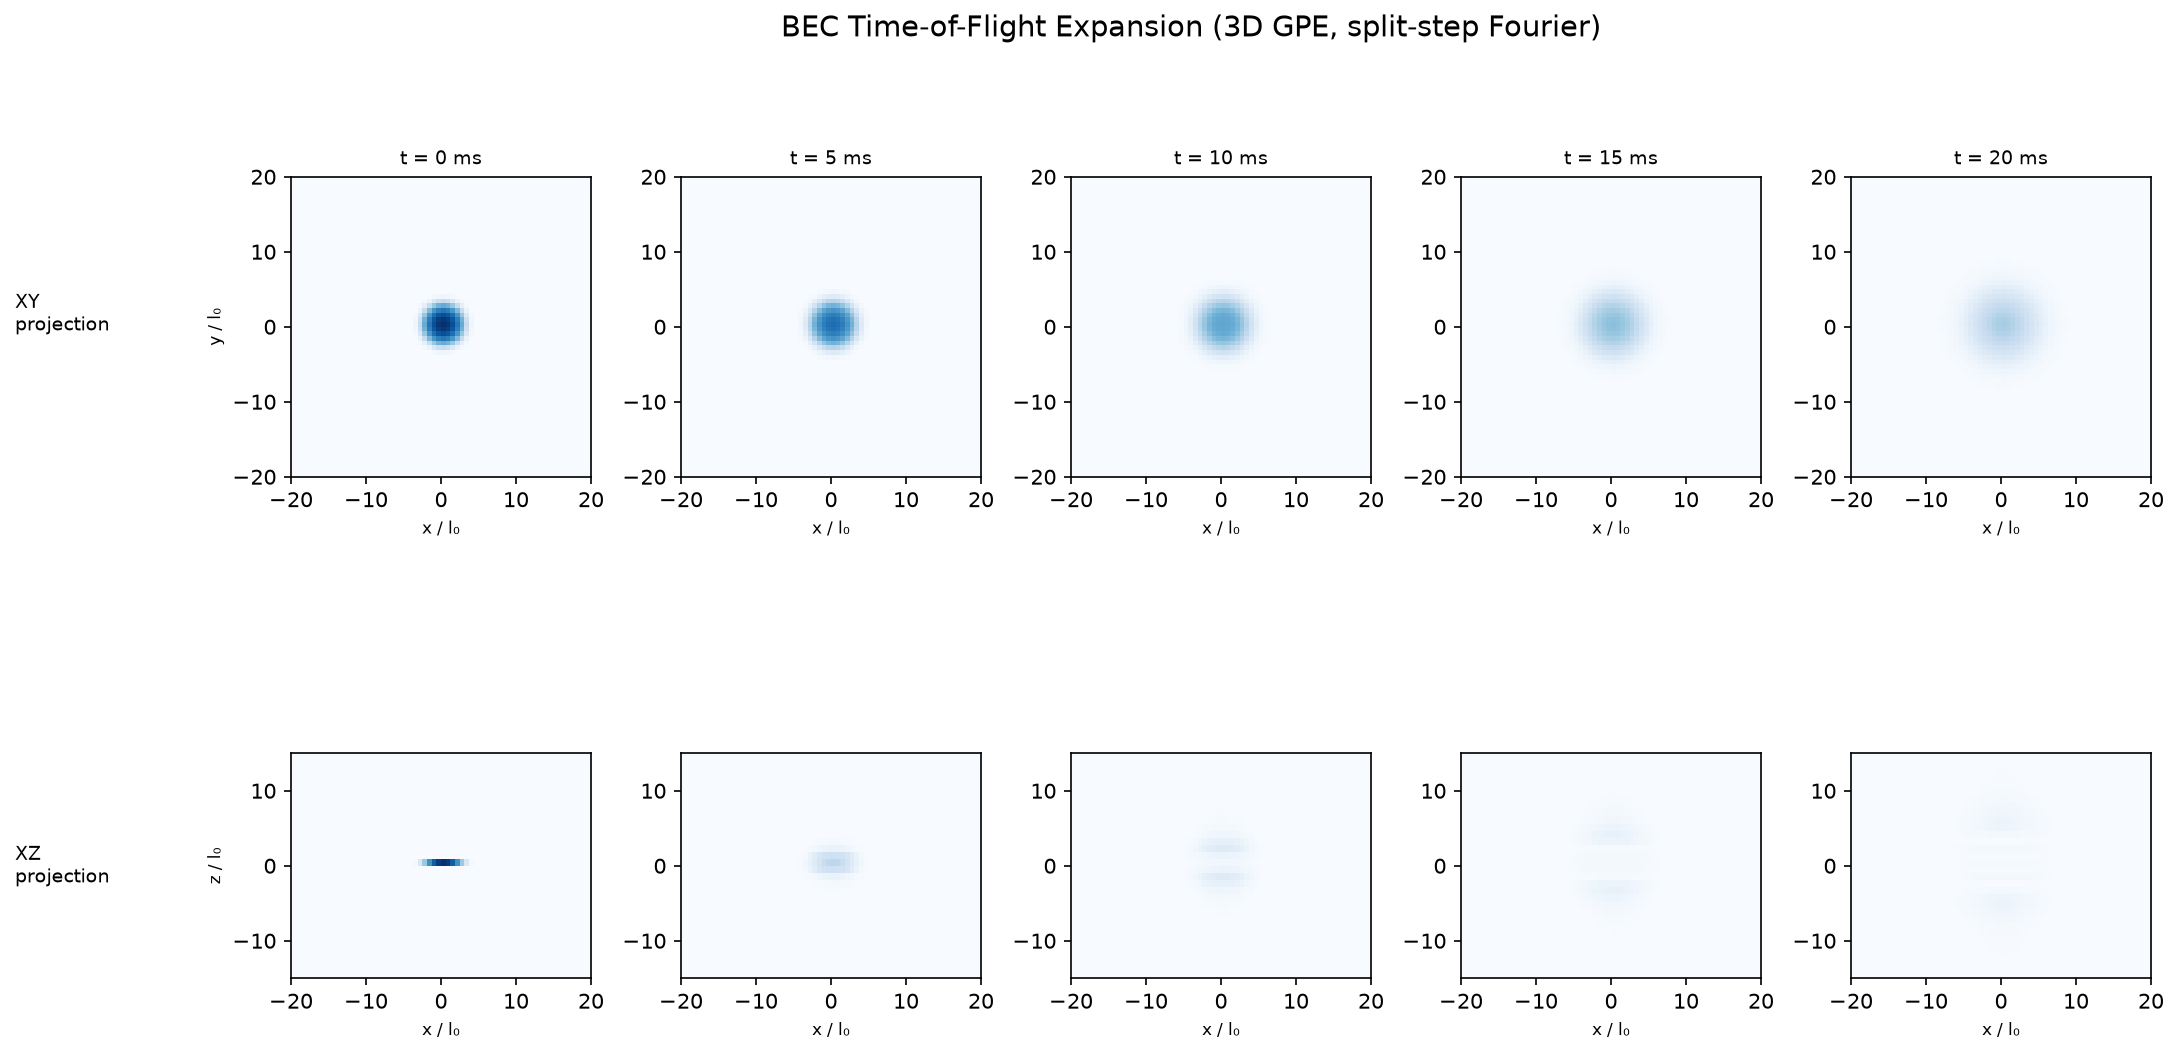
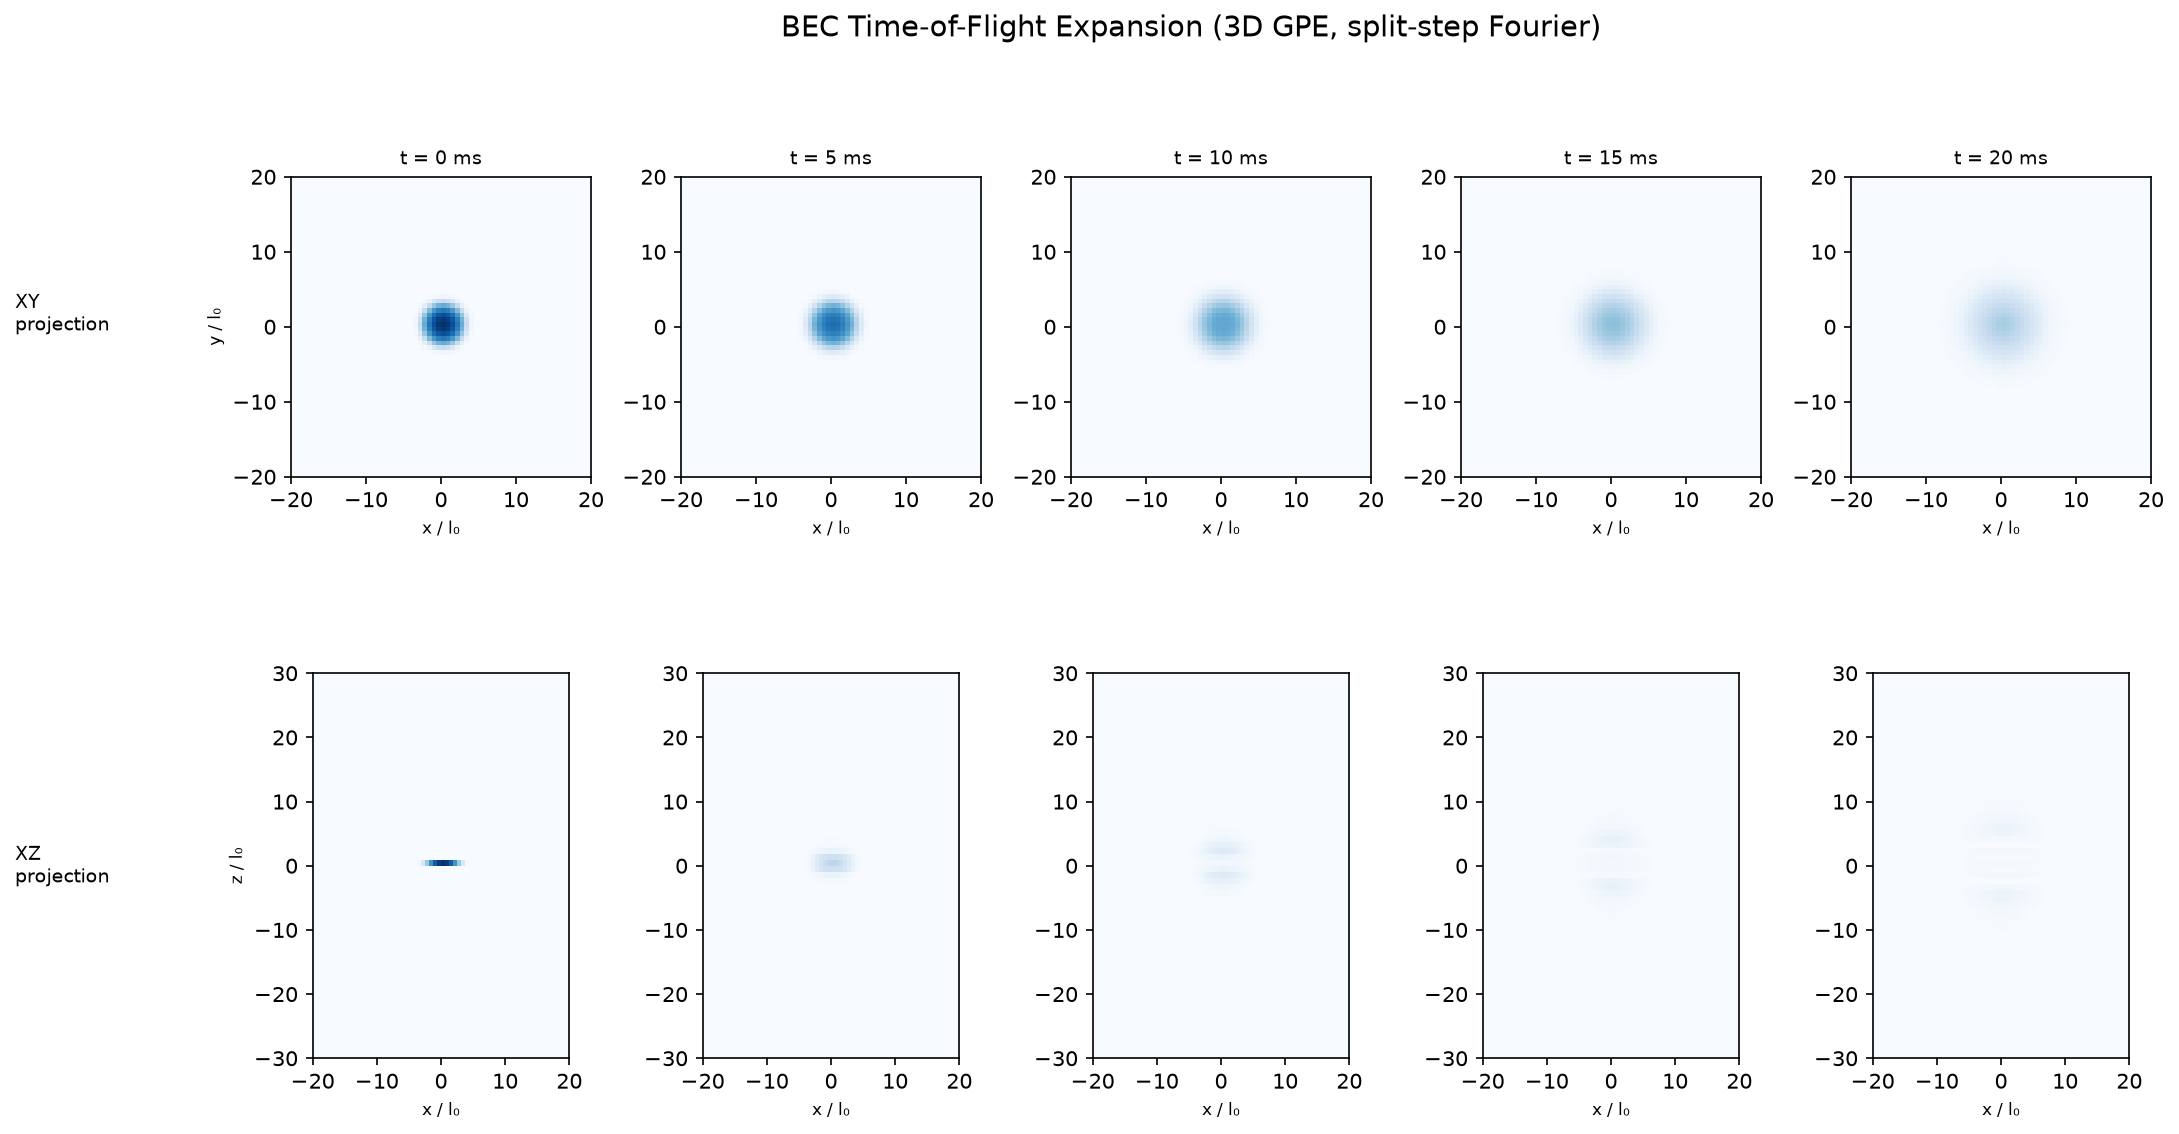
Enlarge Lz, add RMS waist evolution plot

diff --git a/gpe_tof.py b/gpe_tof.py
@@ -48,8 +48,8 @@ a_s      = 5.2e-9                          # s-wave scattering length (m), 87Rb
 g3D      = 4 * np.pi * (a_s / a_ho)       # dimensionless coupling
 
 # ── Grid ─────────────────────────────────────────────────────────────────────
-Nx, Ny, Nz = 64, 64, 32           # grid points (keep powers of 2 for FFT)
-Lx, Ly, Lz = 20.0, 20.0, 15.0   # box half-widths in l0 — sufficient for 20 ms TOF
+Nx, Ny, Nz = 64, 64, 64           # grid points (keep powers of 2 for FFT)
+Lx, Ly, Lz = 20.0, 20.0, 30.0   # box half-widths in l0 — larger Lz for tight z-axis
 
 x = np.linspace(-Lx, Lx, Nx, endpoint=False)
 y = np.linspace(-Ly, Ly, Ny, endpoint=False)
@@ -136,12 +136,25 @@ snapshots   = {}
 psi = psi_gs.copy()
 V_off = np.zeros_like(V_trap)           # trap is OFF during TOF
 
-# Convert save_times to nearest step indices to avoid floating-point misses
+def rms_waist(n3d, coord, dV):
+    """RMS width along one axis given 3D density and coordinate array."""
+    norm = n3d.sum() * dV
+    mean = (n3d * coord).sum() * dV / norm
+    return np.sqrt((n3d * (coord - mean)**2).sum() * dV / norm)
+
+waist_times_ms = []
+waist_x, waist_y, waist_z = [], [], []
+
 for step in range(n_tof_steps + 1):
+    n3d = np.abs(psi)**2
     if step in save_steps:
         t_ms = save_steps[step]
-        snapshots[t_ms] = np.abs(psi)**2
+        snapshots[t_ms] = n3d
         print(f"  saved snapshot at t = {t_ms} ms")
+    waist_times_ms.append(step * abs(dt_real) * t_unit_ms)
+    waist_x.append(rms_waist(n3d, X, dV) * a_ho * 1e6)   # convert to µm
+    waist_y.append(rms_waist(n3d, Y, dV) * a_ho * 1e6)
+    waist_z.append(rms_waist(n3d, Z, dV) * a_ho * 1e6)
     if step < n_tof_steps:
         psi = ssfm_step(psi, dt_real, V_off, g3D, kin_real)
 
@@ -184,4 +197,18 @@ fig.text(0.01, 0.27, "XZ\nprojection", va='center', ha='left', fontsize=9, rotat
 
 plt.savefig("tof_expansion.png", dpi=150, bbox_inches='tight')
 print("Saved: tof_expansion.png")
+
+# ── 4. Waist evolution plot ───────────────────────────────────────────────────
+fig2, ax = plt.subplots(figsize=(7, 5))
+ax.plot(waist_times_ms, waist_x, label=f"x  (ω_x = {freq_x_Hz} Hz)", color='steelblue')
+ax.plot(waist_times_ms, waist_y, label=f"y  (ω_y = {freq_y_Hz} Hz)", color='cornflowerblue', linestyle='--')
+ax.plot(waist_times_ms, waist_z, label=f"z  (ω_z = {freq_z_Hz} Hz)", color='tomato')
+ax.set_xlabel("Time of flight (ms)", fontsize=12)
+ax.set_ylabel("RMS waist (µm)", fontsize=12)
+ax.set_title("BEC cloud waist during TOF", fontsize=13)
+ax.legend(fontsize=10)
+ax.grid(True, alpha=0.3)
+fig2.tight_layout()
+plt.savefig("tof_waists.png", dpi=150, bbox_inches='tight')
+print("Saved: tof_waists.png")
 plt.show()
